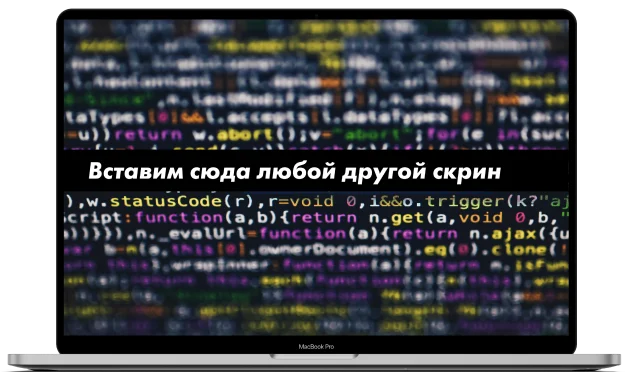
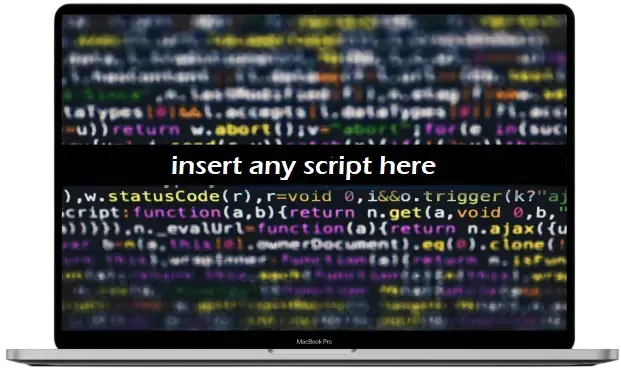
replacing files

diff --git a/index.html b/index.html
@@ -76,7 +76,7 @@
       </div>
     </section>
 
-    <section class="work-section">
+    <section class="work-section" id="work">
       <div class="container">
         <div class="work">
           <h2 class="work__title">How we work</h2>
@@ -129,6 +129,84 @@
         </div>
       </div>
     </section>
+
+    <hr class="divider">
+
+    <section class="about-section" id="about">
+      <div class="container">
+        <div class="about">
+          <div class="about__quality">
+            <h3 class="about__quality-title">High Quality</h3>
+            <p class="about__quality-desc">
+              We are the leading firm by delivering quality and value to our clients.
+              All our professionals have huge experience of creating comfortable
+              high-quality software. We like what we do.
+            </p>
+          </div>
+          <div class="about__touch">
+            <h3 class="about__touch-title">Always in touch</h3>
+            <p class="about__touch-desc">
+              We are always ready to answer your questions.
+              <br> You can call us at the weekends and at night.
+              <br> Also you can have a meeting for personal consultation.
+            </p>
+          </div>
+          <div class="about__approach">
+            <h3 class="about__approach-title">Individual Approach</h3>
+            <p class="about__approach-desc">
+              Our company works according to the principle of individual approach to every client.
+              <br> This method lets us to get success in problems of all levels.
+            </p>
+          </div>
+        </div>
+      </div>
+    </section>
+
+    <hr class="divider">
+
+    <sectioin class="experience-section" id="experience" aria-label="experience sectioin">
+      <div class="container">
+        <div class="experience">
+          <h2 class="experience__title">Our experience </h2>
+          <div class="experience__cards-wrapper">
+
+            <figure class="img-card" aria-label="experience card">
+              <h3 class="img-card__title" aria-label="experience card title">Serverless Live Streaming</h3>
+              <img src="assets/img/card_shooting.webp" alt="card_shooting img" class="img-card__preview">
+              <button class="img-card__btn">
+                <svg class="img-card__btn-icon" aria-label="btn-icon img">
+                  <use href="assets/sprites.svg#arrow-icon"></use>
+                </svg>
+              </button>
+            </figure>
+
+            <figure class="img-card" aria-label="experience card">
+              <h3 class="img-card__title" aria-label="experience card title"> <span>Learn about CloudFlex</span> <span>team cases</span> </h3>
+              <img src="assets/img/card_working.webp" alt="card_working img" class="img-card__preview">
+              <button class="img-card__btn">
+                <svg class="img-card__btn-icon" aria-label="btn-icon img">
+                  <use href="assets/sprites.svg#arrow-icon"></use>
+                </svg>
+              </button>
+            </figure>
+
+            <figure class="img-card" aria-label="experience card">
+              <h3 class="img-card__title" aria-label="experience card title">Live streaming from mobile</h3>
+              <img src="assets/img/card_streaming.webp" alt="card_streaming img" class="img-card__preview">
+              <button class="img-card__btn">
+                <svg class="img-card__btn-icon" aria-label="btn-icon img">
+                  <use href="assets/sprites.svg#arrow-icon"></use>
+                </svg>
+              </button>
+            </figure>
+
+          </div>
+        </div>
+
+      </div>
+    </sectioin>
+
+
 
   </main>
 

diff --git a/styles/_cards.scss b/styles/_cards.scss
@@ -56,3 +56,62 @@
 
    }
 }
+
+.img-card {
+  width: 325px;
+  height: 295px;
+  position: relative;
+   border-radius: 10px;
+   background-color: color.adjust($color_white, $alpha: -0.85);
+   @include m.d-flex(space-between, center, nowrap, column, 0, 0,);
+   overflow: hidden;
+   flex-shrink: 0;
+
+  &__title{
+    @include m.font(23px, 400, $color_white);
+    @include m.d-flex(center, center, nowrap, column, 0, 0,);
+    flex-grow: 1;
+  }
+  &__preview{
+    width: 100%;
+    height: 220px;
+ 
+    
+
+  }
+  &__btn{
+    @include m.position(absolute, 1, -1, bottom, left, -20px, -30px);
+    width: 120px;
+    height: 90px;
+    border-radius: 20px;
+    border: none;
+    background-color: $color_white;
+    rotate: z 7deg;
+    transition: rotate .2s;
+
+    &-icon{
+      width: 36px;
+      height: 23px;
+      fill: $color_black;
+      rotate: z -7deg;
+      translate: 12px -3px;
+    }
+    &:hover{
+      cursor: pointer;
+      rotate: z 7deg;
+      scale: 1.3;
+
+      .img-card__btn-icon{
+        rotate: z -7deg;
+        translate: 17px -8px;
+      }
+    }
+  }
+  &:hover{
+    cursor: pointer;
+    box-shadow: 0 8px 20px 12px rgba(0,0,0, .15), inset 0 -5px 70px 25px rgba(0,0,0, .2);
+  }
+  @media (max-width: $media_min){
+     width: 300px;
+  }
+}

diff --git a/styles/_about.scss b/styles/_about.scss
@@ -13,7 +13,7 @@
       width: 100%;
       height: 400px;
       padding: 0 0 0 15px;
-      background: url('../assets/img/desktop_alpha31.webp') 90% 100%/contain no-repeat;
+      background: url('../assets/img/desktop_alpha.webp') 90% 100%/contain no-repeat;
 
       &-title{
         @include m.font(45px, 400, $color_white)
@@ -26,7 +26,7 @@
 
       @media (max-width: $media_xl){
         background: linear-gradient(180deg,rgba(103, 143, 242, 1) 0%, rgba(103, 143, 242, 0) 74%),
-        url('../assets/img/desktop_alpha31.webp') 90% 45%/500px no-repeat;
+        url('../assets/img/desktop_alpha.webp') 90% 45%/500px no-repeat;
 
       }
       @media (max-width: $media_md){
@@ -38,14 +38,14 @@
         @include m.font(16px, 300, $color_white)
        }
 
-        background: url('../assets/img/desktop_alpha31.webp') 99% 100% / 450px no-repeat;
+        background: url('../assets/img/desktop_alpha.webp') 99% 100% / 450px no-repeat;
 
       }
        @media (max-width: $media_sm){
           &-desc{
             max-width: 320px;
           }
-          background: url('../assets/img/desktop_alpha31.webp') 150px 100% / 400px no-repeat;
+          background: url('../assets/img/desktop_alpha.webp') 150px 100% / 400px no-repeat;
        }
     }
 

diff --git a/styles/_importer.scss b/styles/_importer.scss
@@ -3,6 +3,9 @@
 @forward 'header';
 @forward 'hero';
 @forward 'work';
+@forward 'about';
+@forward 'experience';
+
 
 
 
